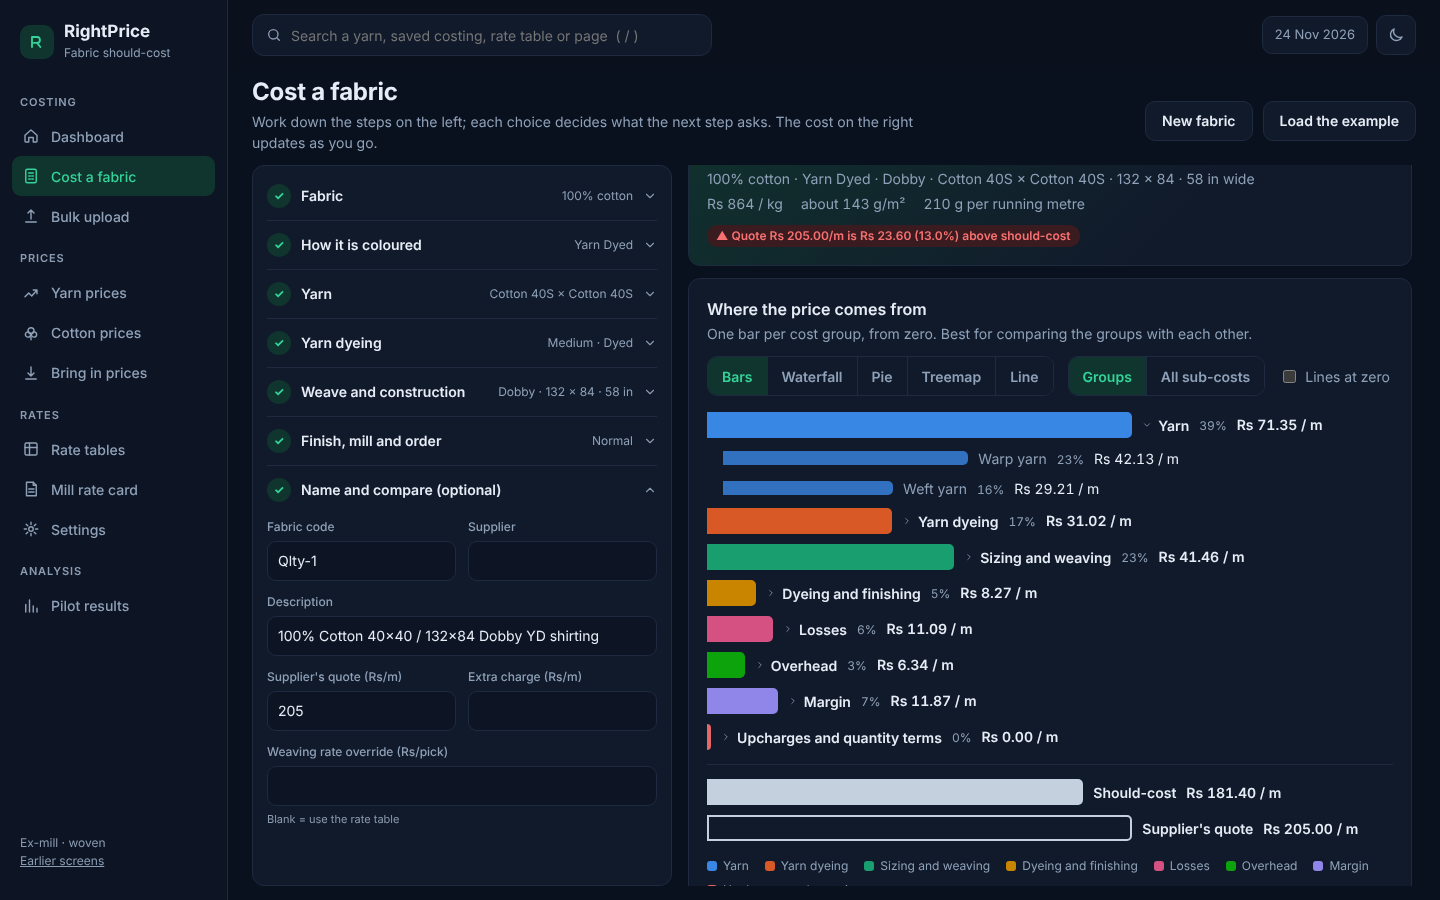
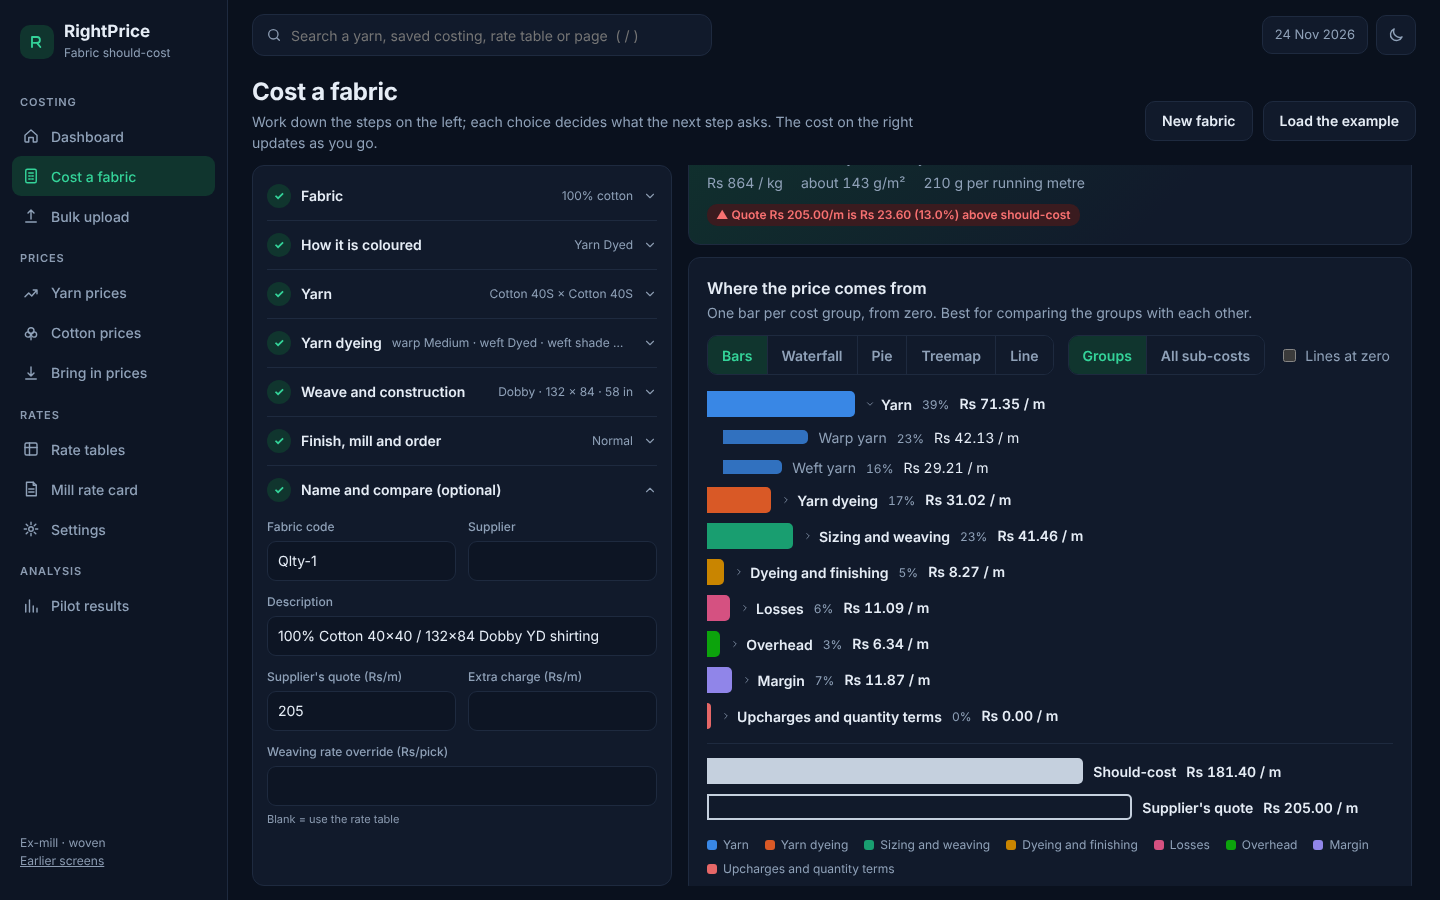
Cost a fabric: fixes from the second cold review
Reed space can be typed (typing no longer folds the step); shades survive a
change of route and back; the bars chart uses one scale when a quote is
shown; a step left on its defaults is not ticked until it has been opened;
treemap labels appear only where they fit; larger line chart labels; the Edit
button hides while a table is being edited.

Claude-Session: https://claude.ai/code/session_01WeMg2ybkgh7anhQLjLwxmn

Changed region(s): [[0.4688, 0.1867, 0.9688, 0.9956], [0.2812, 0.3733, 0.4375, 0.4044]]

diff --git a/web/app.js b/web/app.js
@@ -82,7 +82,7 @@ const NAV = [
   ["Analysis", [["pilot", "Pilot results"]]],
 ];
 const PAGES = {};
-const state = { meta: null, sel: null, chart: "bars", wfMode: "groups", wfOpen: new Set(), showZero: false, bulk: null, dash: null };
+const state = { meta: null, sel: null, visited: new Set(), chart: "bars", wfMode: "groups", wfOpen: new Set(), showZero: false, bulk: null, dash: null };
 
 function buildNav() {
   const nav = $("#nav");
@@ -281,7 +281,7 @@ const STEPS = [
   { id: "fabric", title: "Fabric", need: "Choose the fabric", done: s => !!s.Content, sum: s => s.Content },
   { id: "route", title: "How it is coloured", need: "Choose yarn dyed, piece dyed, bleached or printed", done: s => !!s.Route, sum: s => s.Route },
   { id: "yarn", title: "Yarn", need: "Choose the warp and weft yarn", done: s => !!s["Warp yarn"] && !!s["Weft yarn"], sum: s => `${s["Warp yarn"]} × ${s["Weft yarn"]}` },
-  { id: "dye", title: s => ({ "Yarn Dyed": "Yarn dyeing", "Piece Dyed": "Piece dyeing", Printed: "Printing", "RFD / Bleached": "Bleaching" }[s.Route] || "Dyeing"), done: () => true, sum: s => ["Warp yarn dyeing", "Weft (yarn dyed)", "Piece shade", "Print method"].filter(f => fieldOn(s, f) && s[f]).map(f => s[f]).join(" \u00B7 ") },
+  { id: "dye", title: s => ({ "Yarn Dyed": "Yarn dyeing", "Piece Dyed": "Piece dyeing", Printed: "Printing", "RFD / Bleached": "Bleaching" }[s.Route] || "Dyeing"), done: () => true, sum: s => [["Warp yarn dyeing", "warp "], ["Weft (yarn dyed)", "weft "], ["Weft yarn dyeing", "weft shade "], ["Piece shade", ""], ["Print method", "print: "]].filter(([f]) => fieldOn(s, f) && s[f]).map(([f, p]) => p + s[f]).join(" \u00B7 ") },
   { id: "cons", title: "Weave and construction", need: "Choose the weave and type EPI, PPI and width", done: s => !!s.Weave && s.EPI > 0 && s.PPI > 0 && s["Finished width (in)"] > 0, sum: s => `${s.Weave} · ${s.EPI} × ${s.PPI} · ${s["Finished width (in)"]} in` },
   { id: "finish", title: "Finish, mill and order", done: () => true, sum: s => [s.Finish, fieldOn(s, "Order size") ? s["Order size"] : s["Rate card quantity"]].filter(Boolean).join(" \u00B7 ") },
   { id: "name", title: "Name and compare (optional)", done: () => true, sum: s => [s["Fabric code"], s["Quoted price (Rs/m)"] ? "quote Rs " + s["Quoted price (Rs/m)"] : ""].filter(Boolean).join(" \u00B7 ") },
@@ -313,11 +313,12 @@ PAGES.cost = async () => {
   const set = (name, value, repaint = true) => {
     const before = doneNow();
     sel[name] = value;
-    if (name === "Content") for (const y of ["Warp yarn", "Weft yarn"]) if (sel[y] && contentOfYarn(sel[y]) !== value) sel[y] = "";
+    if (name === "Content") { let cleared = false; for (const y of ["Warp yarn", "Weft yarn"]) if (sel[y] && contentOfYarn(sel[y]) !== value) { sel[y] = ""; cleared = true; } if (cleared) toast(`Yarn cleared: choose a ${value.toLowerCase()} yarn in step 3`); }
     if (name === "Route") {                    // each route starts from its own defaults
-      for (const f of ["Warp yarn dyeing", "Weft yarn dyeing", "Weft (yarn dyed)", "Piece shade", "Print method"]) delete sel[f];
-      if (value === "Yarn Dyed") Object.assign(sel, { "Warp yarn dyeing": "Medium", "Weft yarn dyeing": "Medium", "Weft (yarn dyed)": L["Weft (yarn dyed)"][0] });
-      if (value === "Piece Dyed") sel["Piece shade"] = "Medium";
+      // choices made for another route are kept, out of sight, in case the buyer comes back to it
+      const fill = (f, v) => { if (blank(sel[f])) sel[f] = v; };
+      if (value === "Yarn Dyed") { fill("Warp yarn dyeing", "Medium"); fill("Weft yarn dyeing", "Medium"); fill("Weft (yarn dyed)", L["Weft (yarn dyed)"][0]); }
+      if (value === "Piece Dyed") fill("Piece shade", "Medium");
       if (value !== "Yarn Dyed" && M.small_lot_bands.includes(sel["Rate card quantity"])) { sel["Rate card quantity"] = L["Rate card quantity"][0]; toast("Quantity band cleared: bands below 800 m are for yarn dyed fabrics only"); }
     }
     if (name === "Warp yarn" && !sel["Weft yarn"]) sel["Weft yarn"] = value;      // most fabrics use one yarn both ways
@@ -341,7 +342,10 @@ PAGES.cost = async () => {
     const input = h("input", { id: idOf(name), type: o.text ? "text" : "number", value: sel[name] ?? "", step: o.step || (o.text ? null : "any"), min: o.text ? null : "0", inputmode: o.text ? null : "decimal", placeholder: o.placeholder });
     let wasDone = doneNow();
     input.addEventListener("input", () => { set(name, o.text ? input.value : (input.value === "" ? "" : Number(input.value)), false); });
-    input.addEventListener("change", () => { const before = wasDone; wasDone = doneNow(); if (advance(before)) paint(null, true); });   // typing finished the step: open the next
+    input.addEventListener("change", () => {      // typing finished (or unfinished) the step: unlock what follows, keep the buyer where they are
+      const before = wasDone.join(); wasDone = doneNow();
+      if (wasDone.join() !== before) setTimeout(() => { const id = document.activeElement && document.activeElement.id; paint(); const el = id && document.getElementById(id); if (el) el.focus({ preventScroll: true }); }, 0);
+    });
     return wrap(name, o.label, input, o.hint, o.wide);
   };
   const chipset = (name, values, label) => h("div", { class: "field wide" }, h("span", { class: "lbl", id: idOf(name) + "-l" }, label),
@@ -359,10 +363,10 @@ PAGES.cost = async () => {
       if (fieldOn(sel, "Weft (yarn dyed)")) f.push(pick("Weft (yarn dyed)", "Weft (yarn dyed)", { label: "Weft: dyed or undyed" }));
       if (fieldOn(sel, "Weft yarn dyeing")) f.push(pick("Weft yarn dyeing", "Yarn shade", { label: "Weft shade" }));
       if (fieldOn(sel, "Piece shade")) f.push(pick("Piece shade", "Piece shade"));
-      if (fieldOn(sel, "Print method")) f.push(pick("Print method", "Print method", sel.Route === "Printed" ? { hint: "Not selected = the printing rate per kg" } : { label: "Print over the cloth", hint: "Leave at Not selected for no print" }));
+      if (fieldOn(sel, "Print method")) f.push(pick("Print method", "Print method", sel.Route === "Printed" ? { hint: "Not selected = the calibrated printing rate per kg. Rotary or Digital uses the mill rate card instead", wide: true } : { label: "Print over the cloth", hint: "Leave at Not selected for no print" }));
       return f.length ? f : [h("p", { class: "sub wide", style: "margin:0" }, "Bleached only: nothing to choose here.")];
     },
-    cons: () => [pick("Weave", "Weave", { blank: "Choose..." }), pick("Pattern", "Pattern"),
+    cons: () => [pick("Weave", "Weave", { blank: "Choose..." }), pick("Pattern", "Pattern", { hint: "No price uplift is set for any pattern yet" }),
       typed("EPI", { label: "Ends per inch (EPI)" }), typed("PPI", { label: "Picks per inch (PPI)" }), typed("Finished width (in)", { label: "Finished width (inch)" }), typed("Reed space (in)", { label: "Reed space (inch)", hint: "Blank = from width" }),
       fieldOn(sel, "Dobby shafts") ? pick("Dobby shafts", "Dobby shafts") : null, fieldOn(sel, "Top beam") ? pick("Top beam", "Top beam") : null],
     finish: () => [pick("Finish", "Finish", { wide: true }), pick("Loom type", "Loom type"), pick("Mill tier", "Mill tier"),
@@ -379,9 +383,11 @@ PAGES.cost = async () => {
     if (!state.openStep || !STEPS.some(st => st.id === state.openStep)) state.openStep = (STEPS.find(st => !st.done(sel)) || {}).id || null;
     flow.replaceChildren(...STEPS.map((st, i) => {
       const title = typeof st.title === "function" ? st.title(sel) : st.title;
-      const mine = reachable, done = mine && st.done(sel), open = mine && state.openStep === st.id;
-      if (mine && !done) reachable = false;
-      const sum = done && !open ? st.sum(sel) : "";
+      const open = reachable && state.openStep === st.id;
+      if (open) state.visited.add(st.id);
+      const mine = reachable, done = mine && st.done(sel) && (!!st.need || state.visited.has(st.id));
+      if (mine && !st.done(sel)) reachable = false;
+      const sum = mine && st.done(sel) && !open ? ((done ? "" : "default: ") + st.sum(sel)).replace(/^default: $/, "") : "";
       const head = [h("span", { class: "step-n", "aria-hidden": "true" }, done ? "\u2713" : String(i + 1)), h("h2", {}, title), sum ? h("span", { class: "step-sum" }, sum) : null, mine ? h("span", { class: "step-caret", html: svg('<path d="m6 9 6 6 6-6"/>', 14) }) : null];
       const next = STEPS[i + 1];
       return h("section", { class: "step" + (mine ? "" : " locked") + (done ? " done" : "") + (open ? " open" : ""), "aria-label": `Step ${i + 1}: ${title}` },
@@ -394,8 +400,8 @@ PAGES.cost = async () => {
   paint(); recalc();
 
   const actions = h("div", { class: "row-actions", style: "margin:0 0 12px" },
-    h("button", { class: "btn", type: "button", onclick: () => { state.sel = blankSel(); state.openStep = null; route(); } }, "New fabric"),
-    h("button", { class: "btn", type: "button", onclick: () => { state.sel = exampleSel(); state.openStep = null; route(); } }, "Load the example"));
+    h("button", { class: "btn", type: "button", onclick: () => { state.sel = blankSel(); state.openStep = null; state.visited.clear(); route(); } }, "New fabric"),
+    h("button", { class: "btn", type: "button", onclick: () => { state.sel = exampleSel(); state.openStep = null; STEPS.forEach(st => state.visited.add(st.id)); route(); } }, "Load the example"));
   // the two panes take exactly the height left on the screen, so the page itself does not scroll
   const split = h("div", { class: "cost-split" }, h("div", { class: "pane pane-in", role: "form", "aria-label": "Fabric inputs" }, flow), h("div", { class: "pane pane-out" }, out));
   const fit = () => { if (!split.isConnected) return removeEventListener("resize", fit); split.style.height = innerWidth > 1000 ? Math.max(420, innerHeight - split.getBoundingClientRect().top - scrollY - 14) + "px" : ""; };
@@ -436,7 +442,7 @@ function costView(res, sel) {
     const fn = { bars: barsChart, waterfall, pie: pieChart, treemap: treemapChart, line: buildLine }[state.chart];
     box.replaceChildren(fn(res));
     if (negative && (state.chart === "pie" || state.chart === "treemap")) box.append(h("p", { class: "sub", style: "margin:10px 0 0" }, "A discount cannot be drawn as an area, so it is left out of this view. The bars and the waterfall show it."));
-    note.textContent = CHART_NOTE[state.chart];
+    note.textContent = state.chart === "pie" && state.wfMode === "all" ? "Each sub-cost's share of the price; sub-costs of one group share its colour." : CHART_NOTE[state.chart];
   };
   const seg = (items, key, label) => { const g = h("div", { class: "seg", role: "group", "aria-label": label }); for (const [v, text] of items) g.append(h("button", { type: "button", "aria-pressed": String(state[key] === v), onclick: () => { state[key] = v; state.wfOpen.clear(); [...g.children].forEach(b => b.setAttribute("aria-pressed", String(b.textContent === text))); draw(); } }, text)); return g; };
   const zero = h("input", { type: "checkbox", id: "zero" }); zero.checked = state.showZero;
@@ -478,7 +484,9 @@ const itemTip = (it, total) => () => `<b>${it.name}</b>${it.group !== it.name ? 
 /* Bars: one bar per group from zero, with its name, share and rupees beside it. A group opens
    into its sub-costs on a click; 'All sub-costs' opens every group. */
 function barsChart(res) {
-  const total = res.total_per_m, top = Math.max(...res.buckets.map(b => Math.abs(b.amount)), 0.01);
+  const total = res.total_per_m;
+  // with a quote on the chart, every bar shares the scale of the quote and the should-cost
+  const top = res.quote !== null ? Math.max(total, res.quote) : Math.max(...res.buckets.map(b => Math.abs(b.amount)), 0.01);
   const box = h("div", { class: "bars", role: "list" });
   const row = (name, amount, color, cls, tipFn, button) => {
     const bar = h("div", { class: "bar" + (amount < 0 ? " neg" : ""), style: `width:${Math.max(0.6, Math.abs(amount) / top * 62)}%;background-color:var(${color})` });
@@ -495,7 +503,7 @@ function barsChart(res) {
   });
   if (res.quote !== null) {
     box.append(h("div", { class: "wf-sep", role: "presentation" }));
-    const top2 = Math.max(total, res.quote);
+    const top2 = top;
     for (const [name, v, cls] of [["Should-cost", total, "totalbar"], ["Supplier's quote", res.quote, "quotebar"]])
       box.append(h("div", { class: "bar-row grp" }, h("div", { class: "bar " + cls, style: `width:${v / top2 * 62}%` }), h("span", { class: "bar-text" }, h("span", { class: "bar-name" }, name), h("span", { class: "bar-amt num" }, `${rs(v)} / m`))));
   }
@@ -538,13 +546,14 @@ function treemapChart(res) {
   const place = (el, r, bw, bh) => { el.style.cssText += `left:${r.x / bw * 100}%;top:${r.y / bh * 100}%;width:${r.w / bw * 100}%;height:${r.h / bh * 100}%;`; return el; };
   for (const g of splitRects(groups, 0, 0, W, H)) {
     const cell = place(h("div", { class: "tm-group", role: "listitem", tabindex: "0", style: `background-color:var(${g.color});` }), g, W, H);
-    const label = h("div", { class: "tm-label" }, h("b", {}, g.b.name), h("span", { class: "num" }, `${fmt(g.b.amount)} · ${pct(g.b.pct, 0)}`));
+    const fits = (r, bw, bh) => r.w / bw * (g.w / W) > 0.085 && r.h / bh * (g.h / H) > 0.11;      // room for a label, as a share of the whole chart
+    const label = h("div", { class: "tm-label" }, h("b", {}, g.b.name), h("span", { class: "num" }, `${fmt(g.b.amount)} \u00B7 ${pct(g.b.pct, 0)}`));
     if (state.wfMode === "groups") { cell.append(label); withTip(cell, () => `<b>${g.b.name}</b>${rs(g.b.amount)} per metre · ${pct(g.b.pct)} of the price`); }
     else {
       const inner = h("div", { class: "tm-inner" });
       const kids = g.b.lines.filter(l => l.amount > 0.005).map(l => ({ l, v: l.amount })).sort((p, q) => q.v - p.v);
       for (const k of splitRects(kids, 0, 0, g.w, g.h)) {
-        const kid = place(h("div", { class: "tm-kid", tabindex: "0" }, h("div", { class: "tm-label" }, h("b", {}, k.l.name), h("span", { class: "num" }, fmt(k.l.amount)))), k, g.w, g.h);
+        const kid = place(h("div", { class: "tm-kid", tabindex: "0", "aria-label": `${k.l.name}, ${fmt(k.l.amount)} rupees per metre` }, fits(k, g.w, g.h) ? h("div", { class: "tm-label" }, h("b", {}, k.l.name), h("span", { class: "num" }, fmt(k.l.amount))) : null), k, g.w, g.h);
         withTip(kid, itemTip({ name: k.l.name, group: g.b.name, amount: k.l.amount, basis: k.l.basis }, total)); inner.append(kid);
       }
       cell.removeAttribute("tabindex"); cell.append(inner);
@@ -556,7 +565,7 @@ function treemapChart(res) {
 
 function buildLine(res) {
   const items = chartItems(res, false), total = res.total_per_m;
-  const W = 900, H = 340, m = { l: 56, r: 20, t: 16, b: state.wfMode === "all" ? 120 : 84 };
+  const narrow = innerWidth < 700, W = narrow ? 430 : 760, H = narrow ? 380 : 360, m = { l: 46, r: 16, t: 20, b: state.wfMode === "all" ? 130 : 100 };
   let run = 0; const pts = items.map(it => { run += it.amount; return { it, y: run }; });
   const top = Math.max(...pts.map(p => p.y), total, 1), n = pts.length;
   const X = i => m.l + (n === 1 ? 0.5 : i / (n - 1)) * (W - m.l - m.r), Y = v => m.t + (1 - v / top) * (H - m.t - m.b);
@@ -568,7 +577,7 @@ function buildLine(res) {
   pts.forEach((p, i) => {
     const c = document.createElementNS(ns, "circle"); c.setAttribute("cx", X(i)); c.setAttribute("cy", Y(p.y)); c.setAttribute("r", 6); c.setAttribute("class", "pt"); c.style.fill = `var(${p.it.color})`; c.setAttribute("tabindex", "0");
     withTip(c, () => `<b>${p.it.name}</b>+${fmt(p.it.amount)} → running total ${rs(p.y)}`); s.append(c);
-    const t = document.createElementNS(ns, "text"); t.setAttribute("class", "axis-text"); t.setAttribute("text-anchor", "end"); t.setAttribute("transform", `translate(${X(i) + 4} ${H - m.b + 16}) rotate(-40)`); t.textContent = p.it.name.length > 24 ? p.it.name.slice(0, 23) + "…" : p.it.name; s.append(t);
+    const t = document.createElementNS(ns, "text"); t.setAttribute("class", "axis-text"); t.setAttribute("text-anchor", "end"); t.setAttribute("transform", `translate(${X(i) + 4} ${H - m.b + 16}) rotate(-50)`); const cut = narrow ? 15 : 22; t.textContent = p.it.name.length > cut ? p.it.name.slice(0, cut - 1) + "\u2026" : p.it.name; if (!(narrow && n > 12 && i % 2)) s.append(t);
   });
   const end = document.createElementNS(ns, "text"); end.setAttribute("class", "pie-small"); end.setAttribute("x", X(n - 1)); end.setAttribute("y", Y(pts[n - 1].y) - 12); end.setAttribute("text-anchor", "end"); end.textContent = `Rs ${fmt(total)} / m`; s.append(end);
   return el;
@@ -646,7 +655,7 @@ PAGES.bulk = async () => {
         dataTable(b.results, { filter: true, label: "Bulk results", onRow: r => {
           if (r[cols.indexOf("Error")]) return toast("This row was rejected: " + r[cols.indexOf("Error")]);
           const i = b.results.rows.indexOf(r);
-          state.sel = selFromRow(b.inputs[i]); state.openStep = null;
+          state.sel = selFromRow(b.inputs[i]); state.openStep = null; STEPS.forEach(st => state.visited.add(st.id));
           location.hash = "#cost";
         } })));
   };

diff --git a/web/app.css b/web/app.css
@@ -19,6 +19,7 @@
   color-scheme: dark;
 }
 * { box-sizing: border-box; }
+[hidden] { display: none !important; }
 html { -webkit-text-size-adjust: 100%; }
 body { margin: 0; background: var(--bg); color: var(--text); font: 14px/1.5 var(--font); }
 a { color: var(--accent); }
@@ -303,3 +304,8 @@ button.bar-name[aria-expanded="true"] .caret { transform: rotate(90deg); }
   .pie-svg { max-width: 240px; margin: 0 auto; }
   .treemap { aspect-ratio: 1 / 1 !important; }
 }
+
+.chart .axis-text { font-size: 12px; }
+table.edit { min-width: 100%; }
+.table-wrap:has(table.edit) { max-height: 52vh; }
+@media (max-width: 820px) { .seg { flex-wrap: wrap; } .seg button { padding: 8px 11px; } }
